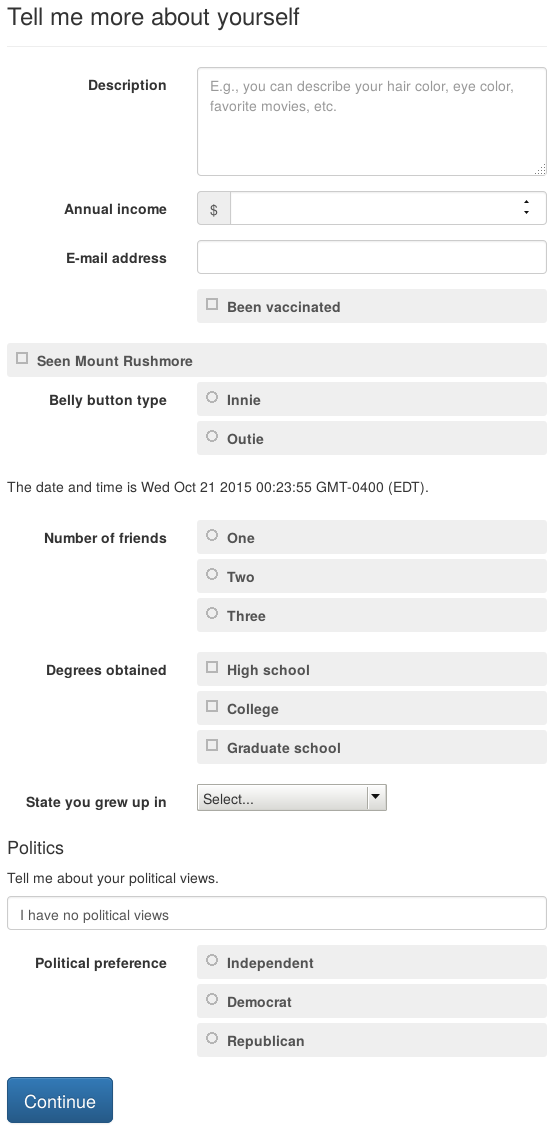
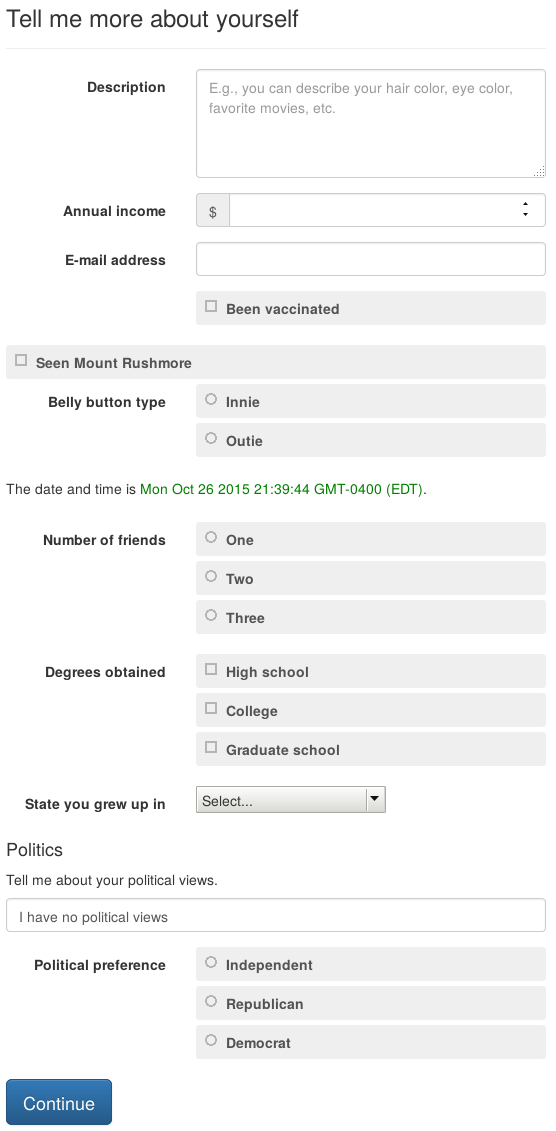
documents

diff --git a/_docs/documents.md b/_docs/documents.md
@@ -5,16 +5,17 @@ short_title: Documents
 ---
 
 The `attachments` statement (which can also be written `attachment`)
-provides documents to the user, which can be previewed, downloaded,
-and/or e-mailed.
+provides documents to the user.  Users can preview, download, and/or
+e-mail the documents.
 
 {% highlight yaml %}
 ---
-question: Your document is ready
+question: Your document is ready.
 sets: provide_user_with_document
 attachment:
-  - name: A document with a classic message
+  - name: A *hello world* document
     filename: Hello_World_Document
+    description: A document with a **classic** message
     content: |
       Hello, world!
 ---
@@ -23,5 +24,63 @@ attachment:
 The above question creates a document containing the text "Hello,
 world!"  By default, the document is created in PDF and RTF format,
 and the user will be given the option to e-mail the document to
-himself.
+himself.  The filenames will be `Hello_World_Document.pdf` and
+`Hello_World_Document.rtf`
 
+The `name`, `filename`, and `description` items can contain [Mako]
+templates.  The `name` and `description` filenames can also contain
+[Markdown].  (The `filename` cannot contain [Markdown], since it's a
+filename, after all.)
+
+The `content` item, of course, can contain [Mako] and [Markdown].
+[Pandoc] converts the content into HTML (for previewing in the
+browser), PDF, and RTF.
+
+You can also limit the file formats available:
+{% highlight yaml %}
+---
+question: Your document is ready.
+sets: provide_user_with_document
+attachment:
+  - name: A *hello world* document
+    filename: Hello_World_Document
+    valid_formats:
+	  - pdf
+    description: A document with a **classic** message
+    content: |
+      Hello, world!
+---
+{% endhighlight %}
+
+## Special markup
+
+* `[INDENTATION]` - Indent every paragraph from now on.
+* `[NOINDENTATION]` - Do not indent every paragraph
+* `[BEGIN_TWOCOL] First column text [BREAK] Second column text [END_TWOCOL]` -
+  Puts text into two columns.  The text in the columns cannot contain [Markdown].
+* `[SINGLESPACING]`
+* `[DOUBLESPACING]`
+* `[NBSP]`
+* `[ENDASH]`
+* `[EMDASH]`
+* `[HYPHEN]`
+* `[PAGEBREAK]`
+* `[PAGENUM]`
+* `[SECTIONNUM]`
+* `[SKIPLINE]`
+* `[VERTICALSPACE]`
+* `[NEWLINE]`
+* `[BR]`
+* `[TAB]`
+* `[FLUSHLEFT]`
+* `[CENTER]`
+* `[BOLDCENTER]`
+
+## Document metadata
+
+
+
+[Mako]: http://www.makotemplates.org/
+[Markdown]: https://daringfireball.net/projects/markdown/
+[YAML]: [YAML]: https://en.wikipedia.org/wiki/YAML
+[Pandoc]: http://johnmacfarlane.net/pandoc/

diff --git a/_docs/fields.md b/_docs/fields.md
@@ -163,6 +163,8 @@ The following are the keys that have special meaning:
 * `script`: raw HTML to be appended to the bottom of the page; usually
   used for Javascript code that interacts with HTML specified in
   `html` entries.
+* `css`: raw HTML to be appended to the HTML head; usually used to
+  provide css classes for HTML specified in `html` entries.
 
 In addition, if you use `no label` as the label for your variable, the
 label will be omitted.  On wide screens, the field will fill more of
@@ -201,6 +203,12 @@ Compare this screenshot . . .
 
 {% highlight yaml %}
 ---
+imports:
+  - us
+---
+modules:
+  - docassemble.base.util
+---
 question: Tell me more about yourself
 fields:
   - Description: user_description
@@ -222,11 +230,11 @@ fields:
       - Innie
       - Outie
   - html: |
-      <p>The date and time is <span id="today_time"></span>.
+      The date and time is <span id="today_time"></span>.
   - script: |
-      <script>
-        document.getElementById("today_time").innerHTML = Date();
-      </script>
+      <script>document.getElementById("today_time").innerHTML = Date();</script>
+  - css: |
+	  <link rel="stylesheet" href="${ url_of('docassemble.demo:data/static/my.css') }">
   - Number of friends: number_of_friends
     datatype: radio
     choices:

diff --git a/_docs/errors.md b/_docs/errors.md
@@ -4,7 +4,7 @@ title: Error messages
 short_title: Errors
 ---
 
-Here are some error messages you might encounter in **docassemble**,
+Here are some error messages you might encounter in **docassemble**
 and how to avoid them.
 
 > can't pickle module objects
